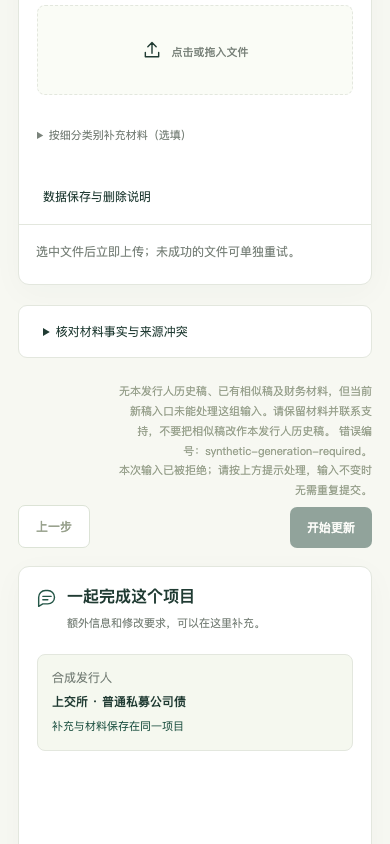
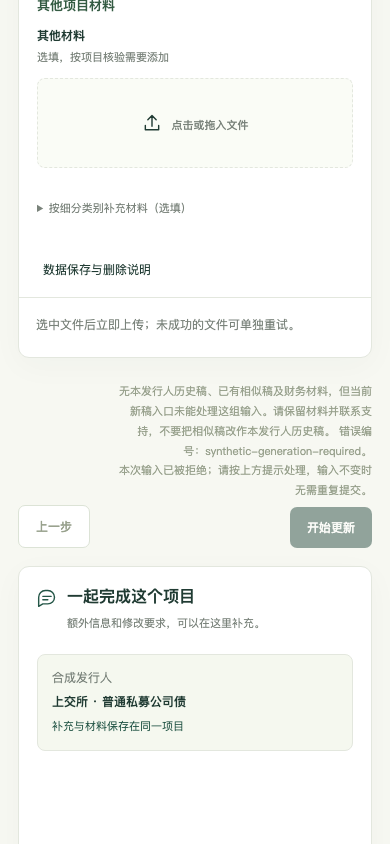
test(web): verify error views after material UX integration

diff --git a/apps/web/tests/upload.spec.ts b/apps/web/tests/upload.spec.ts
@@ -1,5 +1,6 @@
 import { expect, test, type Page, type Route } from '@playwright/test';
 import { randomUUID } from 'node:crypto';
+import { join } from 'node:path';
 import type { MaterialParseJob, Recognition } from '@bondbuddy/contracts';
 
 const origin = process.env.BB_E2E_BASE_URL ?? 'http://127.0.0.1:5173';

diff --git a/apps/web/ux-evidence/issue-361-errors/README.md b/apps/web/ux-evidence/issue-361-errors/README.md
@@ -18,6 +18,7 @@
 | 无历史稿输入被当前入口拒绝（对照原型页脚） | [桌面](generation-input-desktop.png) | [窄屏](generation-input-mobile.png) | 材料步骤页脚显示准确的当前状态和支持编号，不要求把相似稿误标为本发行人历史稿；不新增审核面板 |
 
 两侧截图均为 Chromium 实际渲染，桌面像素 1440×960、窄屏像素 390×844；
+实现截图在 #384 上传页与运行状态更正后的同一界面重拍，保留文件行及页脚的反馈落点；
 测试账号、文件内容、项目与响应均为 **synthetic**。启动时服务端是否已连接新稿、
 原用户遇到的首次泛化错误属于哪一个接口/原因、原项目暂停循环（#384 B10）均
 不能由这些合成 HTTP 截图证明。#35 仍须在准确部署 SHA 上记录原请求阶段、
